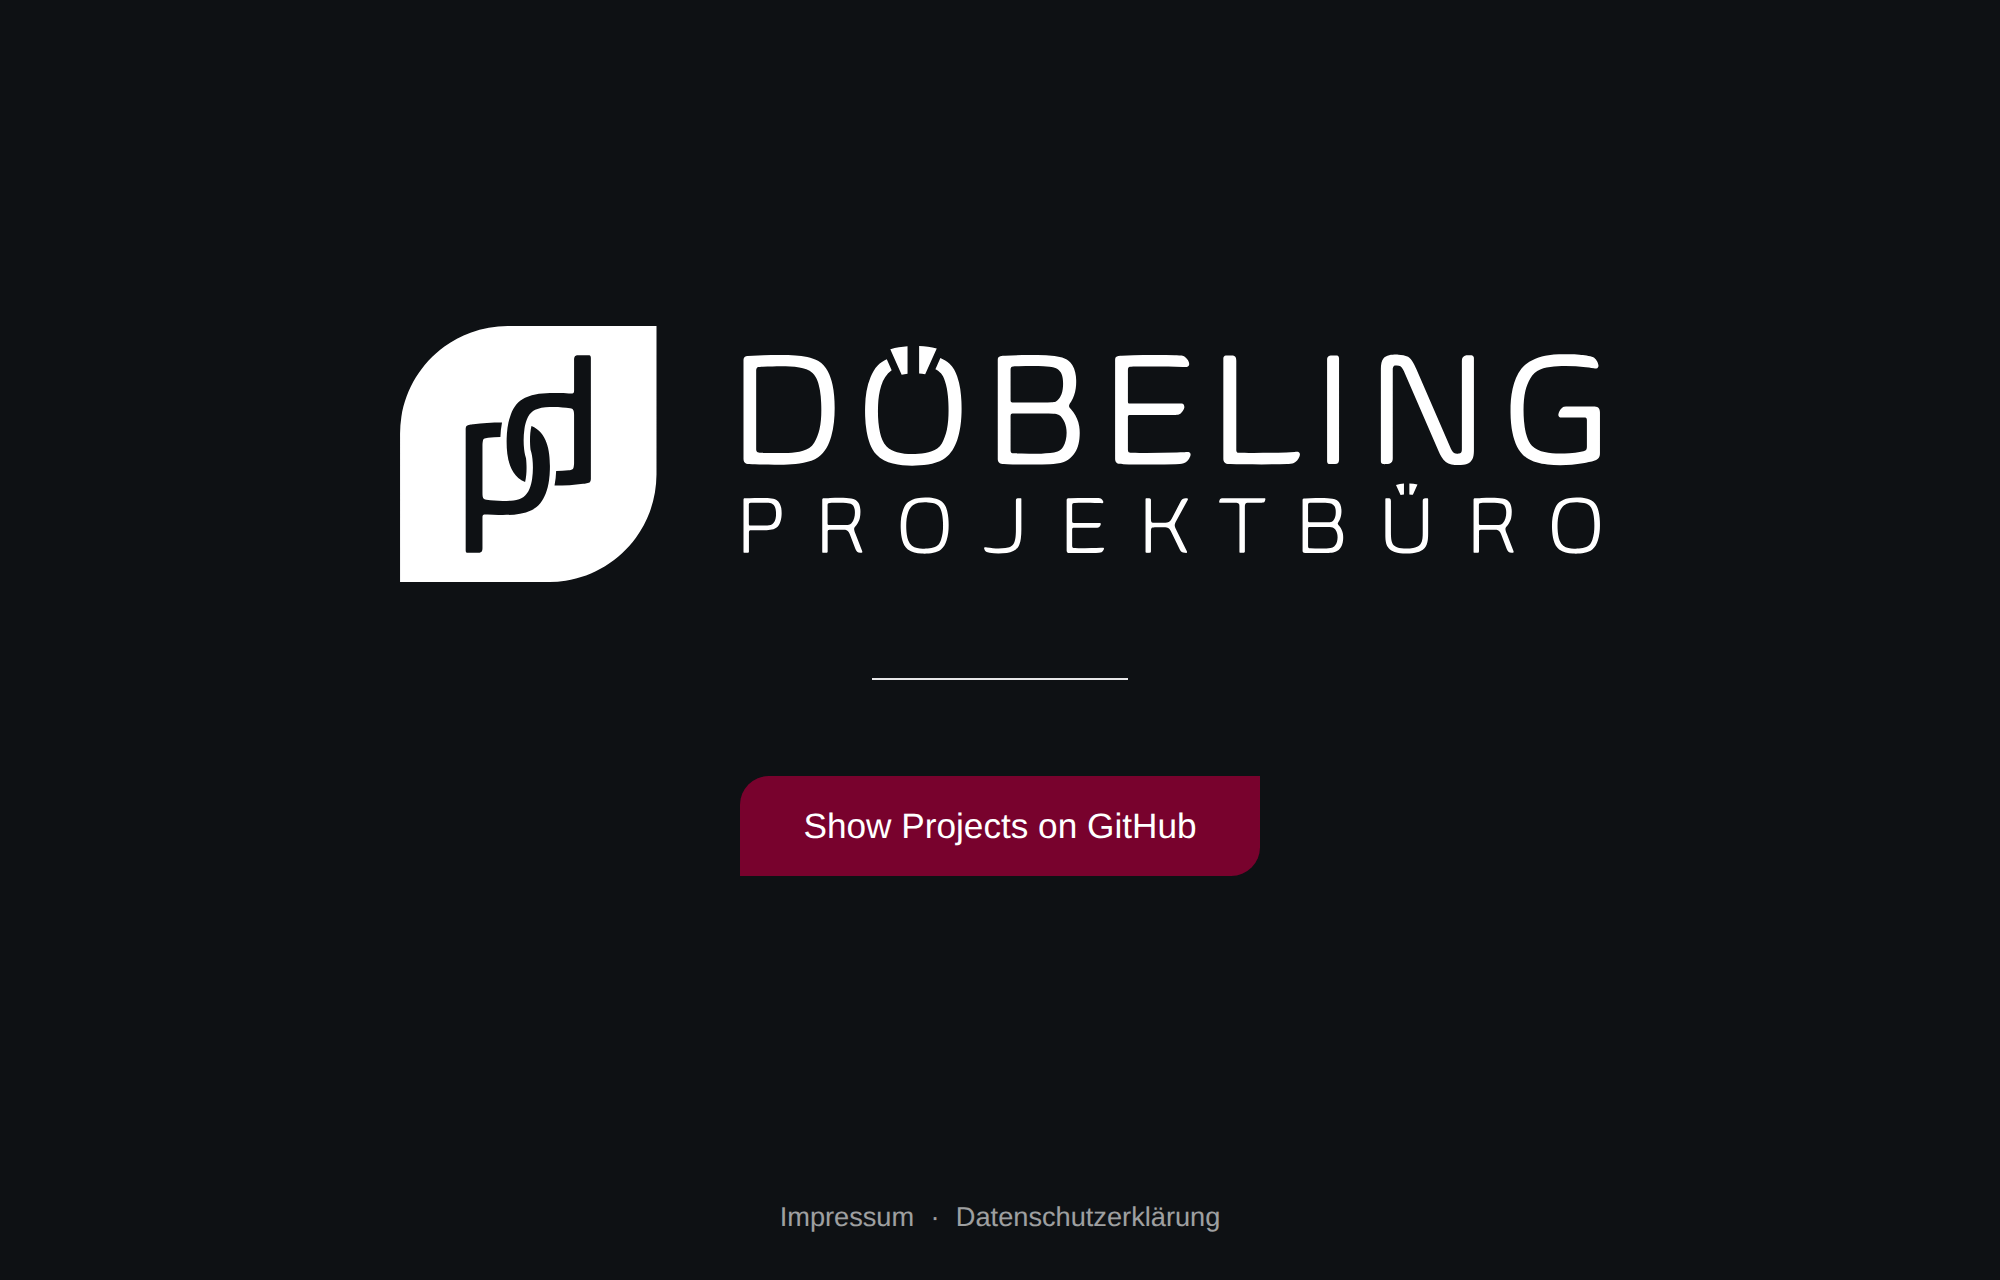
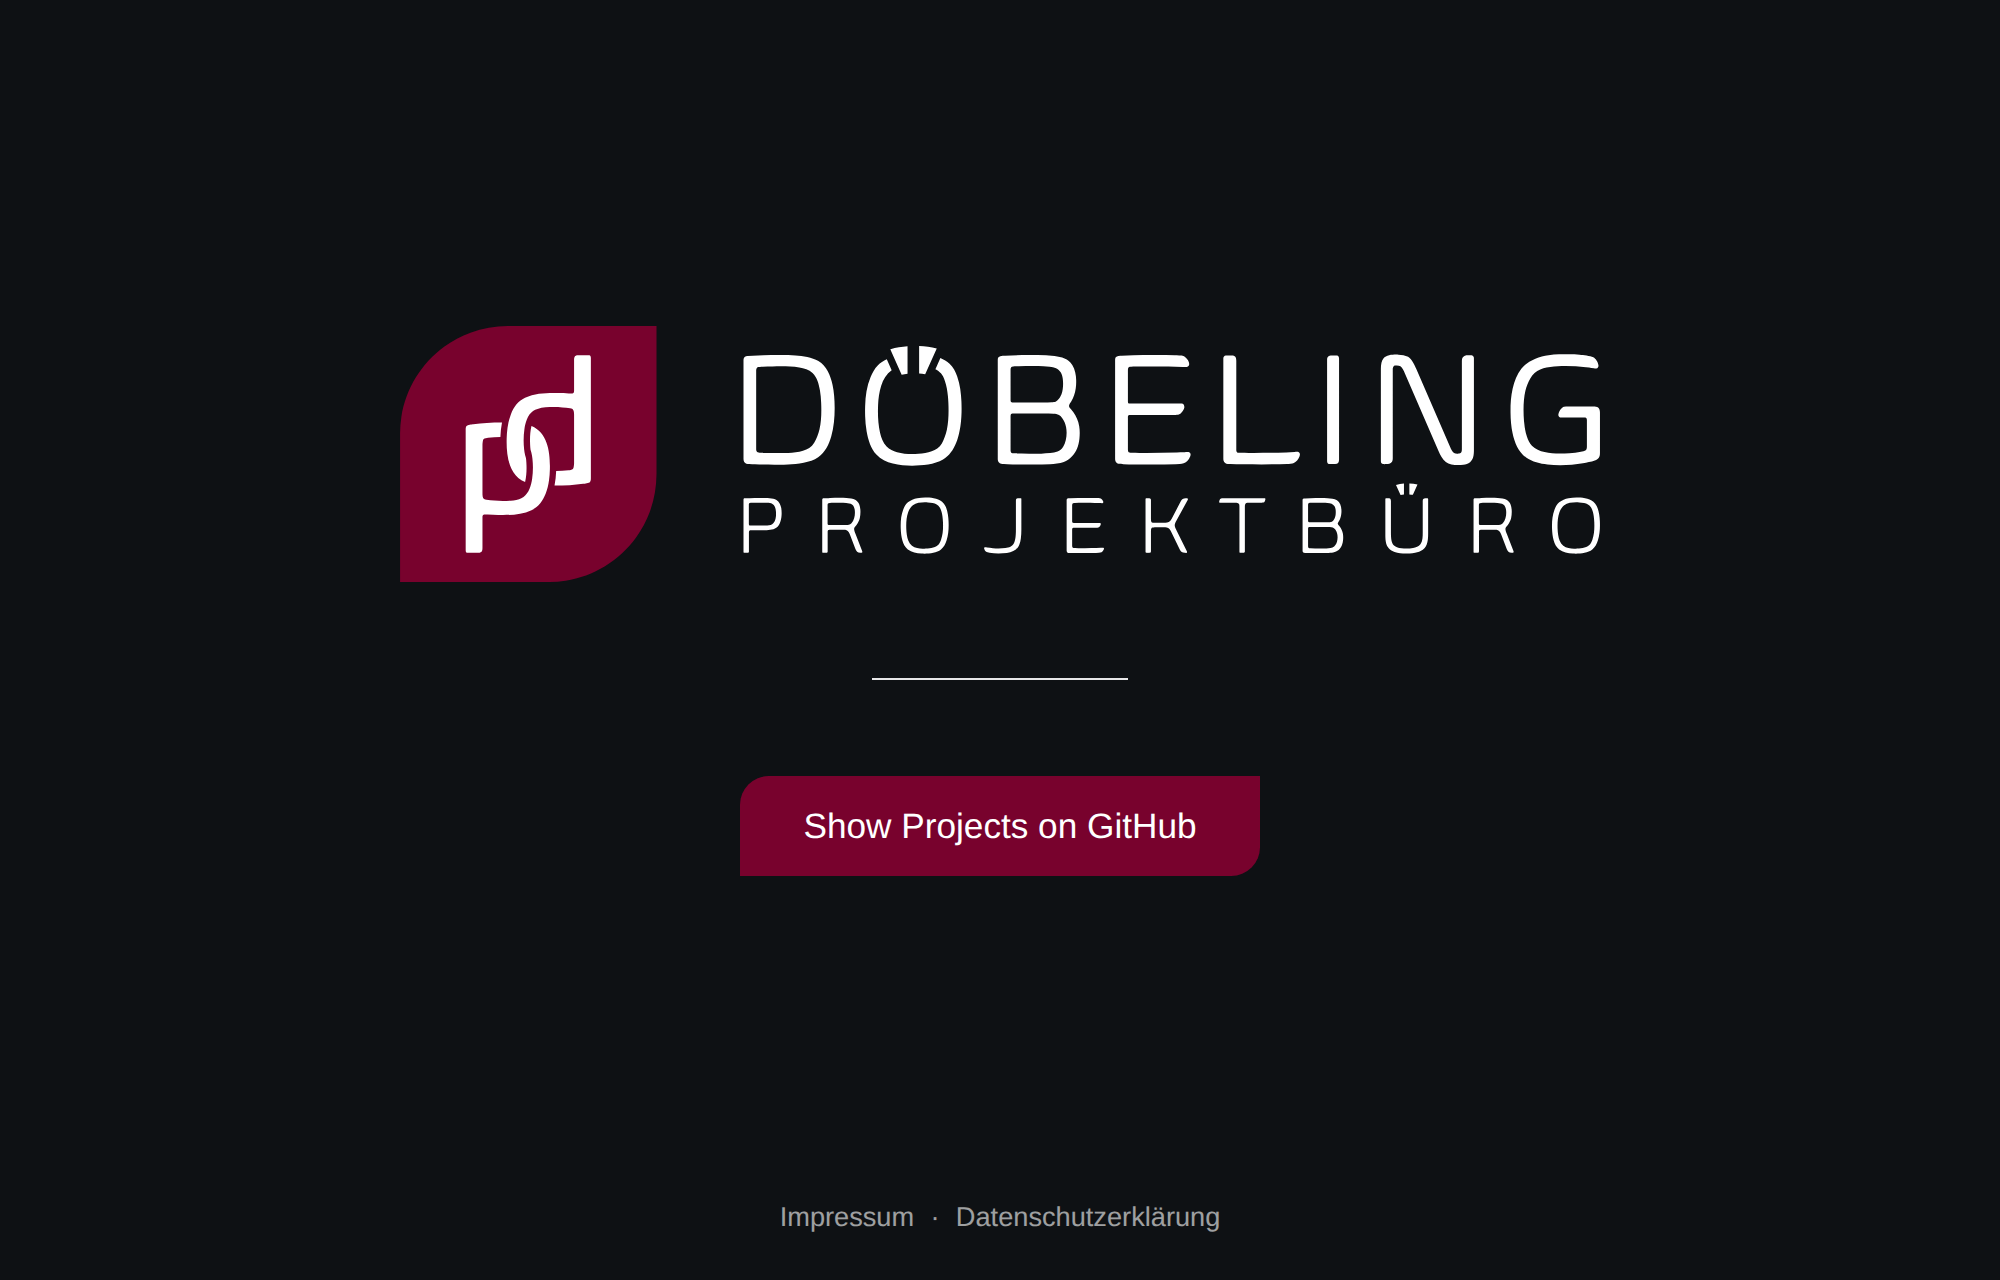
Use the Portwein tile in dark mode too (D15 -dunkel without ground)
- dark mode now shows D15-quer-dunkel / D15-steh-dunkel instead of -weiss,
  as a transparent cut of the delivered files (rect removed, viewBox as
  -hell) so no Nacht box appears on GitHub's dark themes
- README and landing page switched, previews re-rendered

Changed region(s): [[0.186, 0.25, 0.341, 0.4688]]

diff --git a/index.html b/index.html
@@ -99,9 +99,9 @@
 
 <a class="logo" href="https://www.Doebeling.de" title="DÖBELING Projektbüro">
     <picture>
-        <source media="(max-width: 640px) and (prefers-color-scheme: dark)" srcset="assets/D15-steh-weiss.svg">
+        <source media="(max-width: 640px) and (prefers-color-scheme: dark)" srcset="assets/D15-steh-dunkel-ohne-grund.svg">
         <source media="(max-width: 640px)" srcset="assets/D15-steh-hell.svg">
-        <source media="(prefers-color-scheme: dark)" srcset="assets/D15-quer-weiss.svg">
+        <source media="(prefers-color-scheme: dark)" srcset="assets/D15-quer-dunkel-ohne-grund.svg">
         <img src="assets/D15-quer-hell.svg" width="600" height="128" alt="DÖBELING Projektbüro">
     </picture>
 </a>

diff --git a/profile/README.md b/profile/README.md
@@ -1,7 +1,7 @@
 <p align="center">
   <a href="https://www.Doebeling.de">
     <picture>
-      <source media="(prefers-color-scheme: dark)" srcset="https://raw.githubusercontent.com/DOEBELING/.github/main/assets/D15-quer-weiss.svg">
+      <source media="(prefers-color-scheme: dark)" srcset="https://raw.githubusercontent.com/DOEBELING/.github/main/assets/D15-quer-dunkel-ohne-grund.svg">
       <img src="https://raw.githubusercontent.com/DOEBELING/.github/main/assets/D15-quer-hell.svg" width="600" alt="DÖBELING Projektbüro">
     </picture>
   </a>
